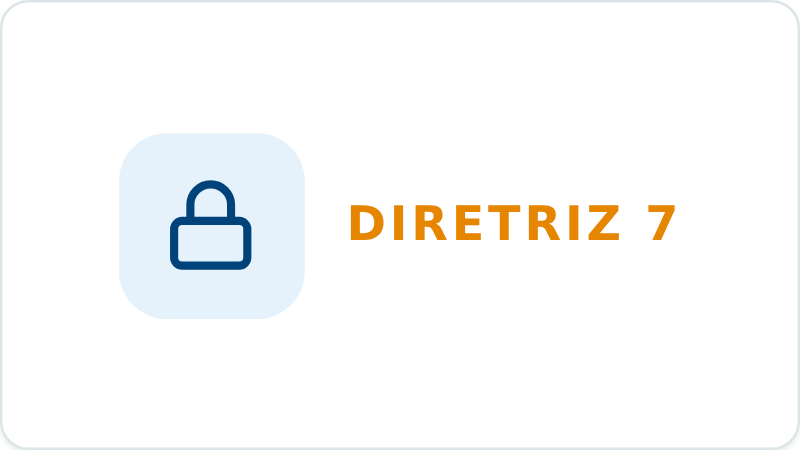
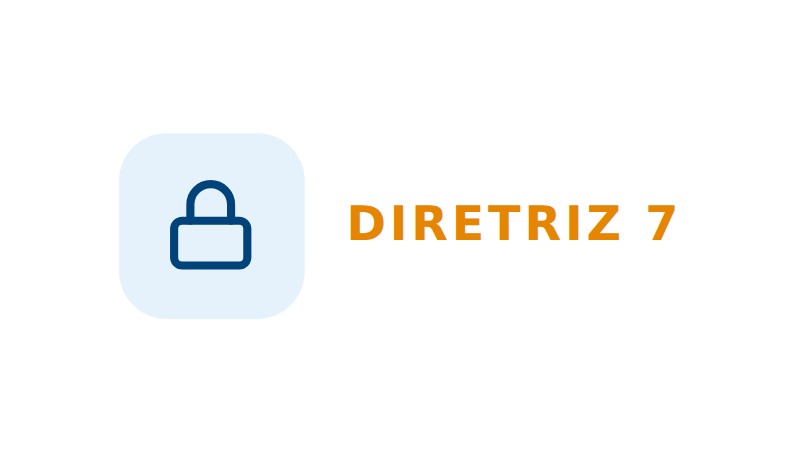
Flatten the diretriz cards onto plain white
Drops the border, the rounded corners and the shadow, and fills the frame with
opaque white instead of leaving the corners transparent. In SharePoint the web
part draws the item's own frame, so the card's border landed inside it as a
second one.

Claude-Session: https://claude.ai/code/session_019NmiVkfk9ZXceb87ffsC4p

diff --git a/prototypes/versionamento-codigo/sharepoint/gerar-cartoes-diretrizes.js b/prototypes/versionamento-codigo/sharepoint/gerar-cartoes-diretrizes.js
@@ -110,8 +110,11 @@ const iconeSvg = (glifo, rotulo) => `<svg xmlns="http://www.w3.org/2000/svg" vie
   await pCard.evaluate((v) => {
     document.documentElement.classList.remove('app-dark');
     const s = document.createElement('style');
-    s.textContent = `html,body{margin:0;padding:0;background:transparent;overflow:hidden}
-      #alvo{width:${v.w}px;height:${v.h}px;box-sizing:border-box;padding:${v.PAD}px;gap:${v.GAP}px}
+    s.textContent = `html,body{margin:0;padding:0;background:#fff;overflow:hidden}
+      /* fundo branco chapado: no SharePoint o próprio web part desenha a moldura
+         do item, e a borda do .ql-card viraria um segundo quadro por dentro */
+      #alvo{width:${v.w}px;height:${v.h}px;box-sizing:border-box;padding:${v.PAD}px;gap:${v.GAP}px;
+            background:#fff;border:0;border-radius:0;box-shadow:none}
       #alvo .ql-icon{width:${v.CX_ICONE}px;height:${v.CX_ICONE}px;border-radius:${Math.round(v.CX_ICONE * 11 / 42)}px}
       #alvo .ql-icon svg{width:${Math.round(v.CX_ICONE * 22 / 42)}px;height:${Math.round(v.CX_ICONE * 22 / 42)}px}
       #alvo .ql-num{font-size:${v.CORPO_NUM}px}
@@ -158,9 +161,7 @@ const iconeSvg = (glifo, rotulo) => `<svg xmlns="http://www.w3.org/2000/svg" vie
       if (vaza.estoura) throw new Error(`"${titulo}" não cabe: ${vaza.medida} em ${vaza.util}`);
 
       const nome = `diretriz-${String(n).padStart(2, '0')}-${slug(titulo)}.png`;
-      await pCard.locator('#alvo').screenshot({
-        path: path.join(SAIDA[conjunto], nome), omitBackground: true,
-      });
+      await pCard.locator('#alvo').screenshot({ path: path.join(SAIDA[conjunto], nome) });
     }
     console.log(`cartoes-diretrizes-${conjunto.padEnd(7)}   ${lista.length} cartões ${EXPORT.join('x')}`);
   }

diff --git a/prototypes/versionamento-codigo/sharepoint/GUIA-MONTAGEM-SHAREPOINT.md b/prototypes/versionamento-codigo/sharepoint/GUIA-MONTAGEM-SHAREPOINT.md
@@ -103,6 +103,9 @@ que é a fonte padrão do SharePoint.
 
    > As três pastas de diretriz saem do mesmo cartão de `diretrizes.html`, então
    > servem à página **Diretrizes** em vez de `links-rapidos/`, que é fundo azul.
+   > Os cartões vêm em **fundo branco chapado, sem borda e sem cantos
+   > arredondados**: quem desenha a moldura do item é o web part, e a borda do
+   > `.ql-card` viraria um segundo quadro por dentro do primeiro.
    > Regerar: `node sharepoint/gerar-cartoes-diretrizes.js`.
 
    > A pasta `ilustracoes-quadriculado/` reproduz o enquadramento que o protótipo dá
